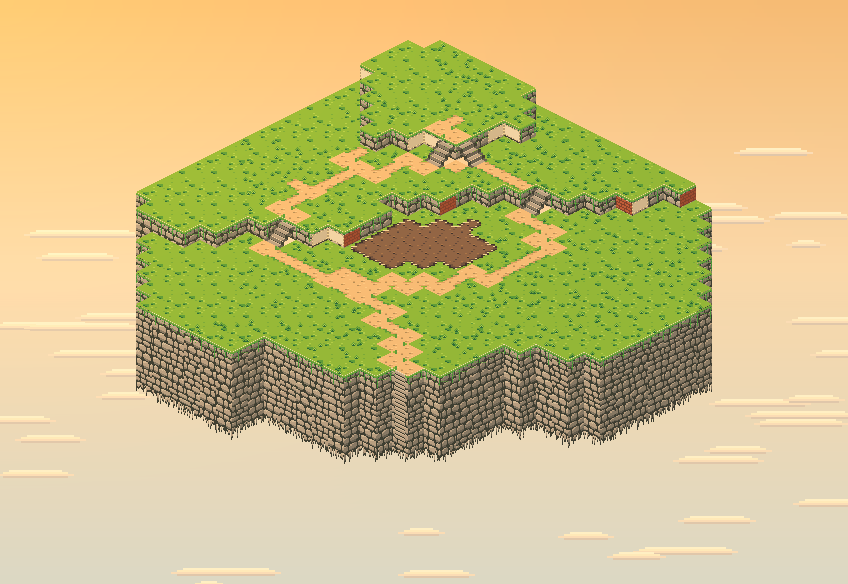
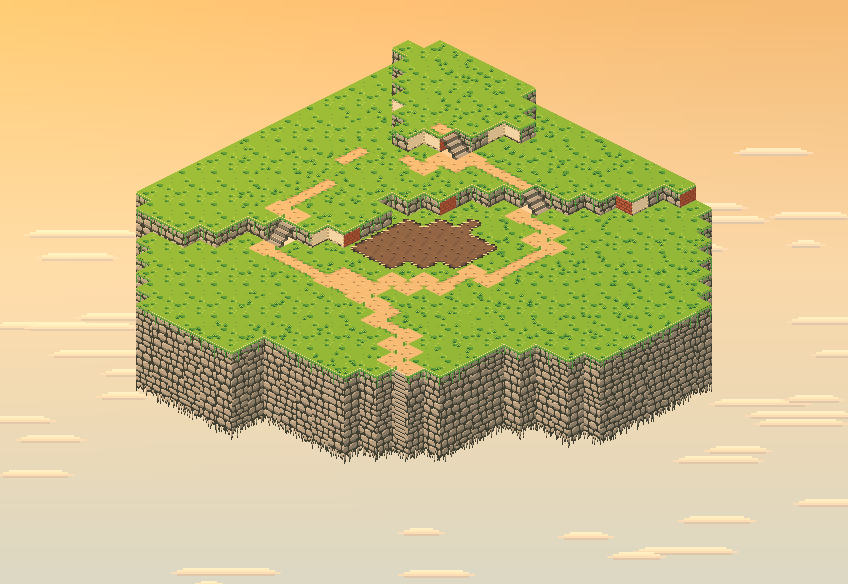
Hollow Rest: stairs climb toward the path; the hill is reachable (layout checks every door, the sanctuary and the exit); NPCs grouped at the sanctuary
Claude-Session: https://claude.ai/code/session_01W318isBZQnWZzLj6ipTENm

diff --git a/game/src/engine/overworld.ts b/game/src/engine/overworld.ts
@@ -137,13 +137,16 @@ export function isBlocked(map: WorldMap, x: number, y: number) {
   return !!o && !OBJECTS[o.kind].walkable;
 }
 
-/** Stairs climb toward whichever neighbour is one level up: -y ('y') or -x ('x'). */
+/**
+ * Stairs climb toward the neighbour one level up, -y ('y') or -x ('x'): the one the path carries
+ * on into, else any higher one. Same rule as the baker (art/tools/iso_map.py).
+ */
 export function stairAxis(map: WorldMap, x: number, y: number): 'x' | 'y' | null {
   if (map.tiles[y]?.[x] !== 'stairs') return null;
   const z = heightAt(map, x, y);
-  if (heightAt(map, x, y - 1) === z + 1) return 'y';
-  if (heightAt(map, x - 1, y) === z + 1) return 'x';
-  return null;
+  const up = ([['y', x, y - 1], ['x', x - 1, y]] as const).filter(([, nx, ny]) => heightAt(map, nx, ny) === z + 1);
+  const onPath = up.filter(([, nx, ny]) => ['path', 'exit'].includes(map.tiles[ny]?.[nx]));
+  return (onPath[0] ?? up[0])?.[0] ?? null;
 }
 
 /** Can you walk from one tile to its neighbour? Same height, or up and down along a stairway. */

diff --git a/game/e2e/npcs.spec.ts b/game/e2e/npcs.spec.ts
@@ -22,10 +22,10 @@ test('the friends wait at the sanctuary, and PATCH heals the team', async ({ pag
   expect(npcs).toEqual(expect.arrayContaining(['patch', 'nolan', 'haydon', 'dani']));
   expect(npcs).not.toContain('callum');
 
-  // Up the hill to the sanctuary, to stand in front of PATCH, and face him.
-  await walkTo(page, 3, 6);
-  await tapKey(page, 'up');
-  expect(await ow(page)).toEqual({ map: 'hollow_rest', x: 3, y: 6, dir: 'up' });
+  // Up the hill to the sanctuary's steps, where PATCH stands guard, and face him.
+  await walkTo(page, 5, 5);
+  await tapKey(page, 'left');
+  expect(await ow(page)).toEqual({ map: 'hollow_rest', x: 5, y: 5, dir: 'left' });
 
   await page.keyboard.press('Space');
   await page.waitForFunction(() => (window as unknown as { __overworld: Ow }).__overworld.talking());

diff --git a/game/e2e/screens.spec.ts b/game/e2e/screens.spec.ts
@@ -54,7 +54,7 @@ test('screens', async ({ page }) => {
   await walkTo(page, 6, 6);
   await page.waitForTimeout(300);
   await shot(page, '04b-overworld-sanctuary');
-  await walkTo(page, 20, 18);
+  await walkTo(page, 14, 17);
   await tapKey(page, 'left');
   await page.keyboard.press('Space');
   await page.waitForTimeout(1500);

diff --git a/art/tools/hollow_rest_layout.py b/art/tools/hollow_rest_layout.py
@@ -12,6 +12,7 @@ Usage: python3 art/tools/hollow_rest_layout.py
 """
 import json, math, os
 
+SPAWN = (12, 13)
 MAP = os.path.join(os.path.dirname(__file__), '..', '..', 'game', 'src', 'data', 'maps', 'hollow_rest.json')
 W = H = 24
 
@@ -25,7 +26,7 @@ def height(x, y):
     wob = math.sin(u * 0.9) * 0.8 + math.cos(u * 0.37 + 1) * 1.2
     front = 37 - 0.18 * abs(u) + wob
     if abs(u) > 17 - max(0, (s - 30)) * 0.6 or s > front or s < 1: return 0
-    if s < 12 + math.sin(u * 0.7) * 0.6 and -3 <= u <= 6: return 3
+    if s < 11.5 and -1 <= u <= 6: return 3
     if (u < -2 and s < 21 + math.sin(u * 0.8)) or (u >= -2 and s < 17 + math.cos(u * 0.6) * 0.7): return 2
     return 1
 
@@ -35,7 +36,7 @@ K = [['.' for _ in range(W)] for _ in range(H)]
 
 
 def put(x, y, c):
-    if 0 <= x < W and 0 <= y < H and Z[y][x] > 0: K[y][x] = c
+    if 0 <= x < W and 0 <= y < H and Z[y][x] > 0 and (x, y) not in globals().get('FOOT', ()): K[y][x] = c
 
 
 def path(points, c='='):
@@ -71,6 +72,33 @@ for y in range(H):
         elif u > 12 and s < 21: K[y][x] = 'T' if n < 7 else 'b'
         elif n == 0 and Z[y][x] < 3: K[y][x] = 'b'
 
+objects = []
+def obj(kind, u, s, wx=1, wy=1):
+    """Place by the footprint's front tile at (u, s)."""
+    fx, fy = tile(u, s)
+    objects.append({'kind': kind, 'x': fx - wx + 1, 'y': fy - wy + 1})
+obj('sanctuary', 2, 10, 3, 4)
+obj('cottage', -10, 18, 2, 3)
+obj('casa', -4, 16, 2, 3)
+obj('suburb', 8, 15, 5, 2)
+obj('crater', 0, 22, 3, 3)
+obj('shed', 10, 24, 2, 2)
+for u, s in [(-7, 23), (-6, 24), (-7, 25), (-5, 23)]: obj('sunflowers', u, s)
+obj('lamp', -6, 21)
+obj('laundry', -7, 18)
+obj('chalk', -2, 30)
+obj('cat', -4, 31)
+obj('bench', 4, 28)
+obj('crates', 12, 24)
+
+OBJ = json.load(open(os.path.join(os.path.dirname(MAP), '..', 'objects.json')))['objects']
+FOOT = set()
+for o in objects:
+    d = OBJ[o['kind']]
+    if d.get('walkable'): continue
+    for yy in range(o['y'], o['y'] + d['wy']):
+        for xx in range(o['x'], o['x'] + d['wx']): FOOT.add((xx, yy))
+
 # Paths (as in the concept): from the stairs at the front edge, a winding track up-left past the
 # garden to the cottage terrace; a branch right round the crater to the shed and up to the
 # suburb; and up the hill to the sanctuary.
@@ -89,7 +117,7 @@ def stairs_at(x, y):
     z = Z[y][x]
     for dx, dy in ((0, -1), (-1, 0)):
         nx, ny = x + dx, y + dy
-        if 0 <= nx < W and 0 <= ny < H and Z[ny][nx] == z + 1:
+        if 0 <= nx < W and 0 <= ny < H and Z[ny][nx] == z + 1 and (nx, ny) not in FOOT:
             K[y][x] = 'H'; return True
     return False
 for y in range(H):
@@ -118,27 +146,7 @@ for pts in ([(-10, 26), (-9, 27), (-8, 28), (-7, 29), (-6, 30)], [(-4, 26), (-3,
         x, y = tile(u, s)
         if 0 <= x < W and 0 <= y < H and K[y][x] in '.b': K[y][x] = '#'
 
-objects = []
-def obj(kind, u, s, wx=1, wy=1):
-    """Place by the footprint's front tile at (u, s)."""
-    fx, fy = tile(u, s)
-    objects.append({'kind': kind, 'x': fx - wx + 1, 'y': fy - wy + 1})
-obj('sanctuary', 2, 10, 3, 4)
-obj('cottage', -10, 18, 2, 3)
-obj('casa', -4, 16, 2, 3)
-obj('suburb', 8, 15, 5, 2)
-obj('crater', 0, 22, 3, 3)
-obj('shed', 10, 24, 2, 2)
-for u, s in [(-7, 23), (-6, 24), (-7, 25), (-5, 23)]: obj('sunflowers', u, s)
-obj('lamp', -6, 21)
-obj('laundry', -7, 18)
-obj('chalk', -2, 30)
-obj('cat', -4, 31)
-obj('bench', 4, 28)
-obj('crates', 12, 24)
-
 # objects stand on their own ground: clear terrain under them, and level the ground to the front tile
-OBJ = json.load(open(os.path.join(os.path.dirname(MAP), '..', 'objects.json')))['objects']
 for o in objects:
     d = OBJ[o['kind']]
     zf = Z[o['y'] + d['wy'] - 1][o['x'] + d['wx'] - 1]
@@ -147,7 +155,41 @@ for o in objects:
             if K[yy][xx] in 'Tb#*': K[yy][xx] = '.'
             Z[yy][xx] = zf          # level ground under it
 # the town sign by the path to the edge
-K[18][19] = 'S'
+K[17][13] = 'S'
+
+# Every door, the sanctuary, the heal spot and the way off must be walkable from the spawn.
+def walkable(x, y):
+    return 0 <= x < W and 0 <= y < H and Z[y][x] > 0 and K[y][x] not in 'TbS#' and (x, y) not in FOOT
+def stair_axis(x, y):
+    """Toward the higher neighbour (-y or -x) that the path carries on into; else any higher one."""
+    if K[y][x] != 'H': return None
+    up = [(a, nx, ny) for a, nx, ny in (('y', x, y - 1), ('x', x - 1, y)) if nx >= 0 and ny >= 0 and Z[ny][nx] == Z[y][x] + 1]
+    on_path = [a for a, nx, ny in up if K[ny][nx] in '=E']
+    return (on_path or [a for a, _, _ in up] or [None])[0]
+def climb(ax, ay, bx, by):
+    za, zb = Z[ay][ax], Z[by][bx]
+    if za == zb: return True
+    if abs(za - zb) != 1: return False
+    lx, ly, hx, hy = (ax, ay, bx, by) if za < zb else (bx, by, ax, ay)
+    a = stair_axis(lx, ly)
+    return (a == 'y' and (hx, hy) == (lx, ly - 1)) or (a == 'x' and (hx, hy) == (lx - 1, ly))
+def reach(start):
+    seen, todo = {start}, [start]
+    while todo:
+        x, y = todo.pop()
+        for dx, dy in ((0, 1), (0, -1), (1, 0), (-1, 0)):
+            n = (x + dx, y + dy)
+            if n not in seen and walkable(*n) and climb(x, y, *n):
+                seen.add(n); todo.append(n)
+    return seen
+R = reach(SPAWN)
+need = {'exit': (ex, ey)}
+for o in objects:
+    d = OBJ[o['kind']]
+    if 'door' in d: need[o['kind'] + ' door'] = (o['x'] + d['door'][0], o['y'] + d['door'][1])
+    if d.get('opens'): need[o['kind'] + ' front'] = (o['x'] + d['wx'] // 2, o['y'] + d['wy'])
+missing = {k: v for k, v in need.items() if v not in R}
+assert not missing, f'not reachable from the spawn: {missing}'
 
 rows = [''.join(r) for r in K]
 heights = [''.join(str(z) for z in r) for r in Z]

diff --git a/art/tools/iso_map.py b/art/tools/iso_map.py
@@ -168,11 +168,12 @@ class Map:
 
 
 def stair_axis(m, x, y):
-    """Stairs climb toward whichever neighbour is one level up: -y (steps descend toward +y) or -x."""
+    """Stairs climb toward the neighbour one level up (-y: steps descend toward +y; or -x) that the
+    path carries on into; else any higher one. Same rule as the game (engine/overworld.ts)."""
     z = m.z(x, y)
-    if m.z(x, y - 1) == z + 1: return 'y'
-    if m.z(x - 1, y) == z + 1: return 'x'
-    return 'y'
+    up = [(a, nx, ny) for a, nx, ny in (('y', x, y - 1), ('x', x - 1, y)) if m.z(nx, ny) == z + 1]
+    on_path = [a for a, nx, ny in up if m.kind(nx, ny) in ('path', 'exit')]
+    return (on_path or [a for a, _, _ in up] or ['y'])[0]
 
 
 def ground_tile(m, x, y):
